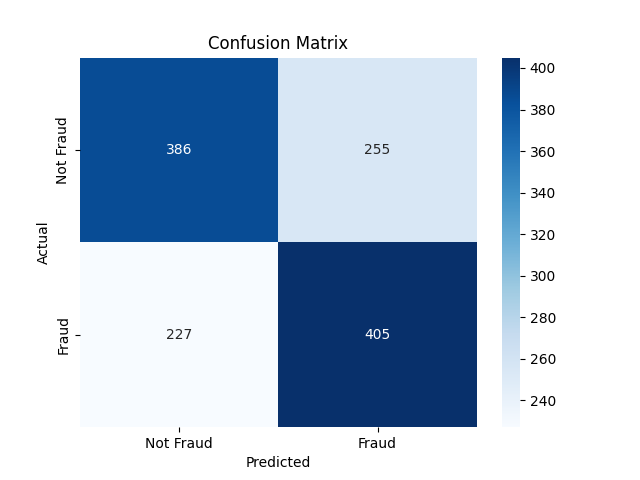
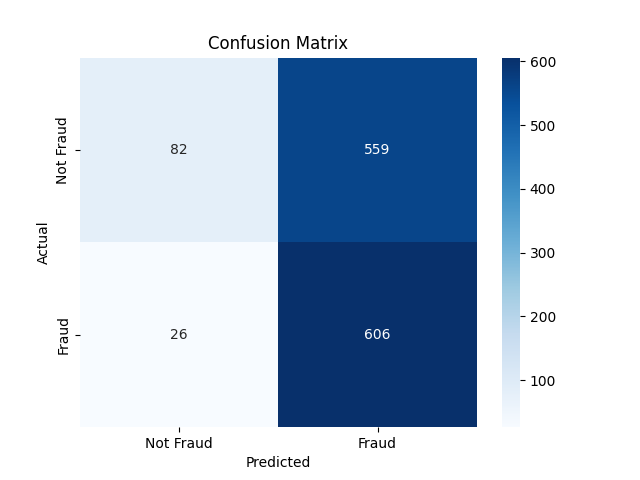
feat: improve model training script with class weight adjustment

diff --git a/model_training_v1.py b/model_training_v1.py
@@ -15,7 +15,7 @@ df = pd.read_csv("dataset/credit_card_fraud_dataset.csv")
 
 # Handle missing values
 missing_values = df.isnull().sum()
-print("Missing Values: \n", missing_values)
+print(missing_values)
 
 # Drop Transaction_ID
 df.drop(columns=["Transaction_ID"], inplace=True)
@@ -26,7 +26,7 @@ y = df["Fraudulent"]
 
 # Check for class imbalance
 class_distribution = y.value_counts()
-print("Original Class Distribution:\n", class_distribution)
+print(class_distribution)
 
 # Identify numerical columns
 num_features = ["Amount", "Time", "Previous_Fraudulent"]
@@ -47,7 +47,7 @@ preprocessor = ColumnTransformer(
 # Apply preprocessing to features
 X_processed = preprocessor.fit_transform(X)
 
-# Print transformed feature names
+# Print transformed features
 print("Processed feature names:", preprocessor.get_feature_names_out())
 
 # Use SMOTE to handle class imbalance
@@ -56,20 +56,18 @@ X_resampled, y_resampled = smote.fit_resample(X_processed, y)
 
 # Print resampled class distribution
 class_distribution_resampled = y_resampled.value_counts()
-print("Resampled Class Distribution:\n", class_distribution_resampled)
+print(class_distribution_resampled)
 
 # Train Test Split 80-20
 X_train, X_test, y_train, y_test = train_test_split(X_resampled, y_resampled, test_size=0.2, random_state=42)
 
-# Train logistic regression model with balanced class weights
-model = LogisticRegression(class_weight='balanced', random_state=42)
+# Train logistic regression model
+model = LogisticRegression()
 model.fit(X_train, y_train)
 
 # Model evaluation
+y_pred = model.predict(X_test)
 y_pred_proba = model.predict_proba(X_test)[:, 1]
-# Apply threshold adjustment to increase fraud detection sensitivity
-y_pred = (y_pred_proba > 0.3).astype(int)  # Lower threshold to 30%
-
 print("Classification Report: \n", classification_report(y_test, y_pred))
 print("ROC AUC Score: ", roc_auc_score(y_test, y_pred_proba))
 
@@ -83,7 +81,7 @@ plt.show()
 
 # Plot ROC Curve
 fpr, tpr, _ = roc_curve(y_test, y_pred_proba)
-plt.plot(fpr, tpr, label=f"ROC Curve (AUC = {roc_auc_score(y_test, y_pred_proba):.2f})")
+plt.plot(fpr, tpr, label=f"ROC Curve (AUC = {roc_auc_score(y_test, y_pred_proba):.2f}")
 plt.plot([0, 1], [0, 1], linestyle='--', color='gray')
 plt.xlabel("False Positive Rate")
 plt.ylabel("True Positive Rate")
